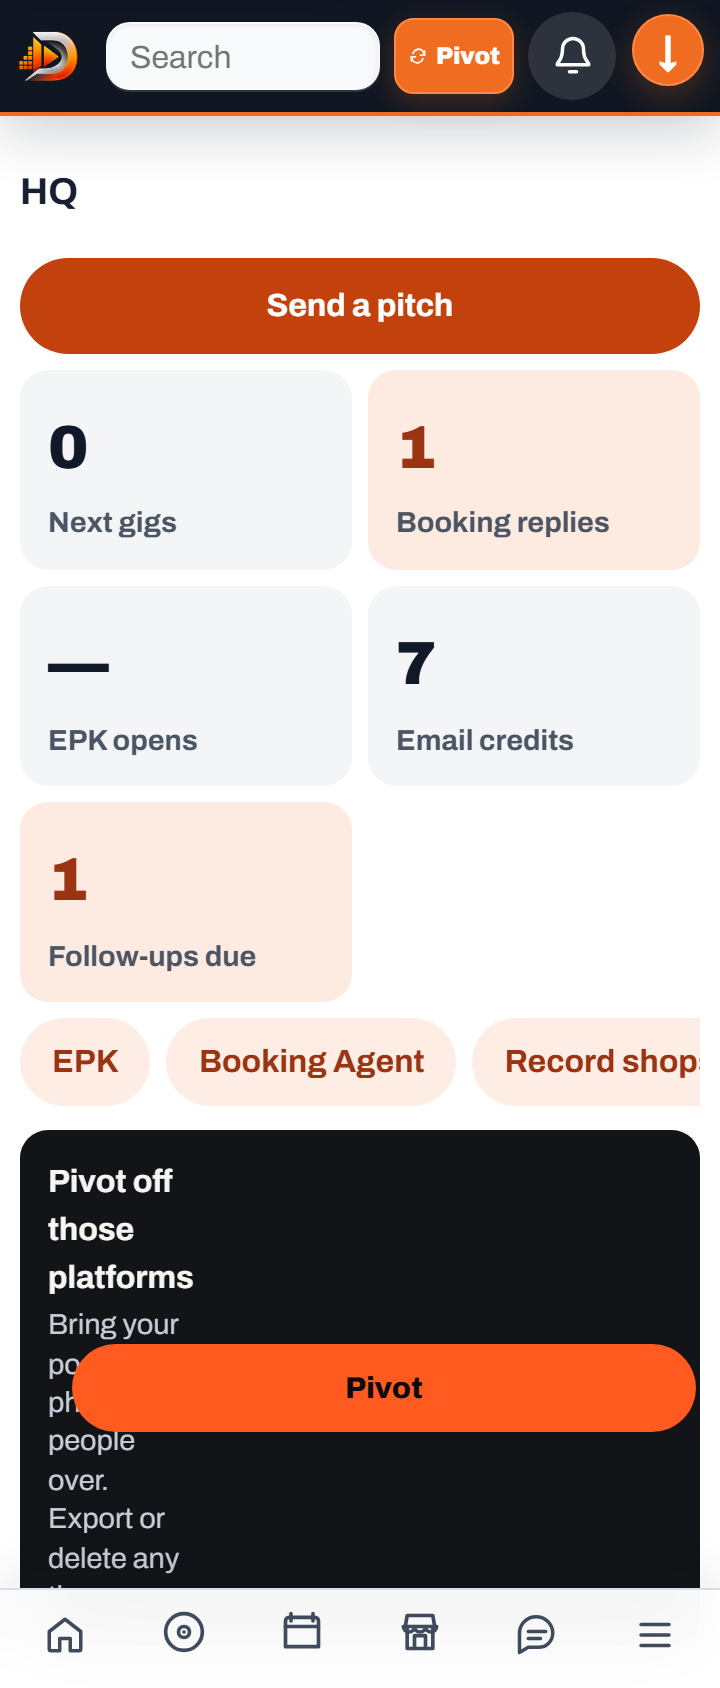
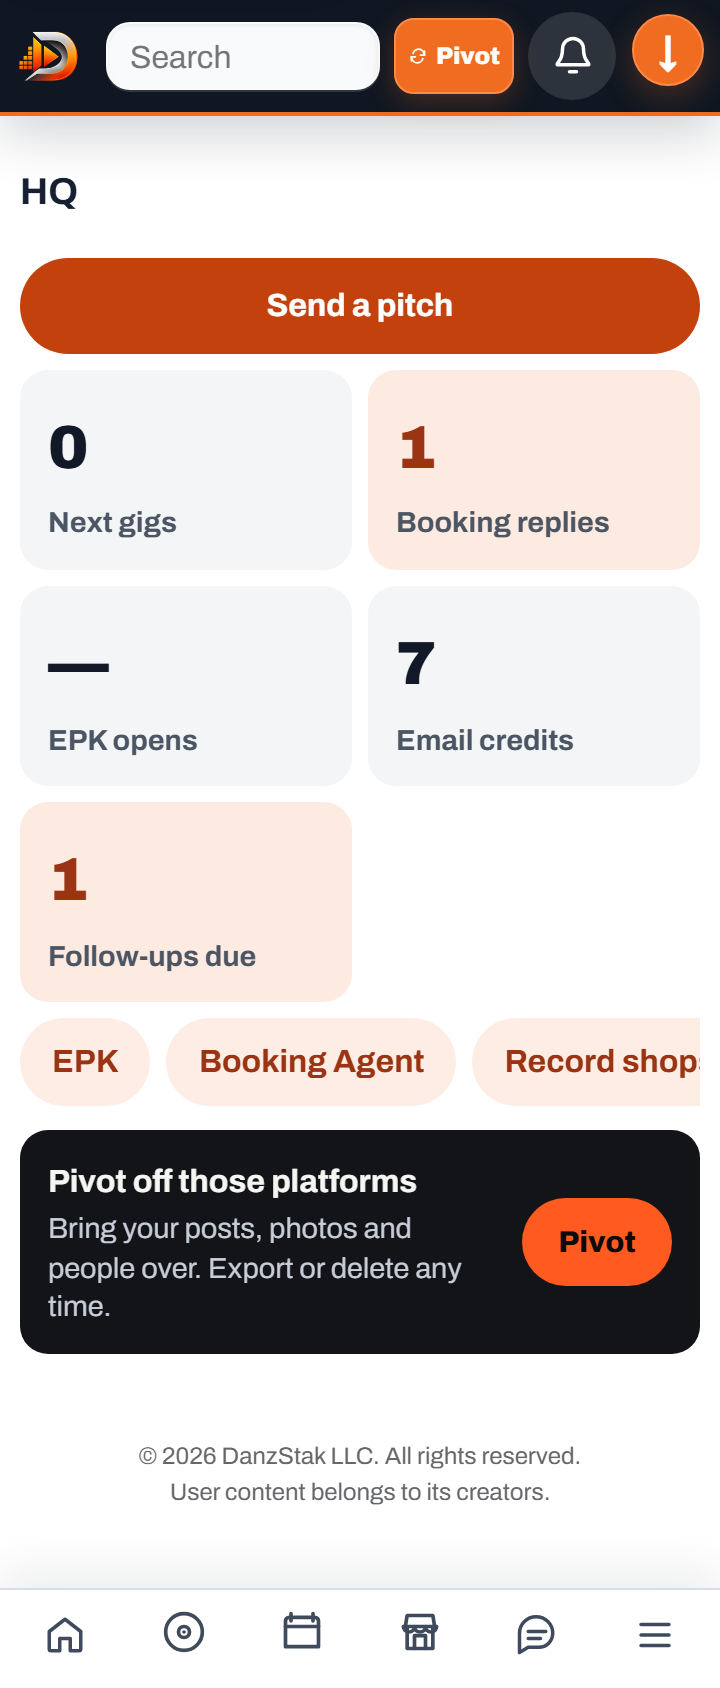
HQ: Pivot button keeps its size on phones; check asserts it

Changed region(s): [[0.0306, 0.6777, 0.9778, 0.955]]

diff --git a/feed.html b/feed.html
@@ -360,7 +360,7 @@ video.post-media { height:auto; max-height:none; object-fit:contain; object-posi
 <link rel="stylesheet" href="assets/responsive-media.css?v=9">
 <link rel="stylesheet" href="assets/mobile-design-system.css?v=21">
 <link rel="stylesheet" href="assets/danzstak-original-feed.css?v=32">
-<link rel="stylesheet" href="assets/artist-hq.css?v=4">
+<link rel="stylesheet" href="assets/artist-hq.css?v=5">
 <script src="assets/languages.js?v=231" defer></script>
 <script src="assets/brand-language-aliases.js?v=8" defer></script>
 <script src="assets/i18n-people.js?v=1" defer></script>

diff --git a/assets/artist-hq.css b/assets/artist-hq.css
@@ -21,3 +21,4 @@
 .artist-hq-tools::-webkit-scrollbar{display:none}
 .artist-hq-tool{display:inline-flex;align-items:center;flex:0 0 auto;min-height:44px;padding:0 16px;border-radius:999px;background:rgba(239,108,32,.12);color:#9a3412;font-weight:700;text-decoration:none;white-space:nowrap;-webkit-tap-highlight-color:transparent}
 .artist-hq-tool:active{background:rgba(239,108,32,.22);transform:scale(.97)}
+.artist-hq-pivot .artist-hq-action,.artist-hq-tools .artist-hq-tool{width:auto!important}
